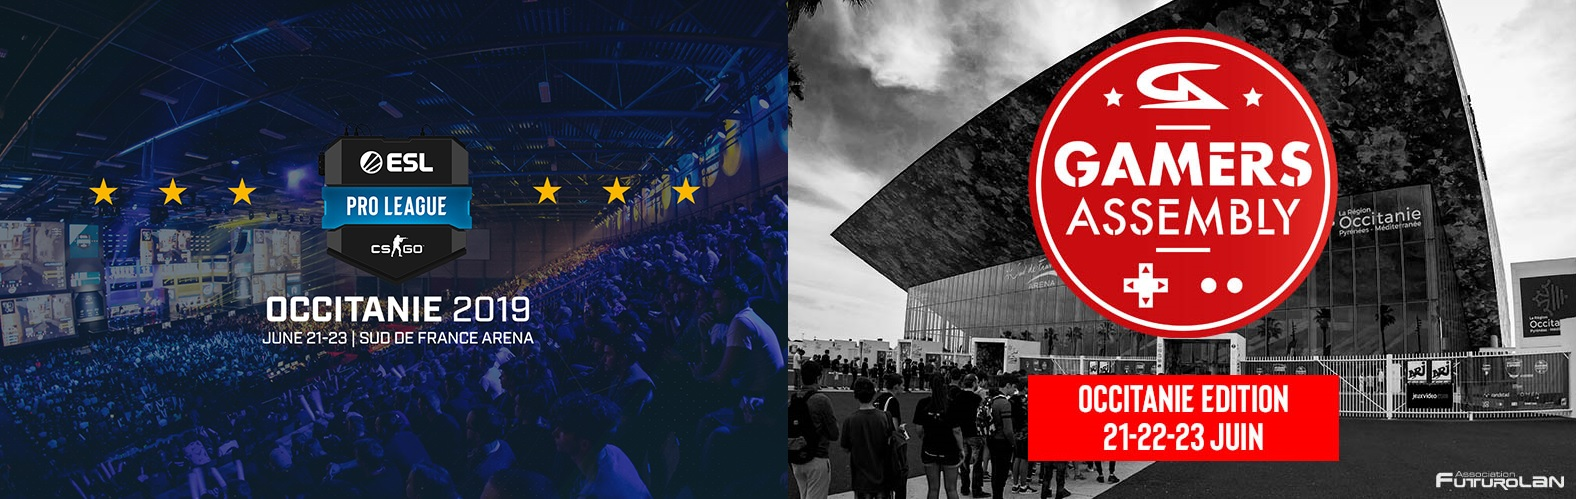
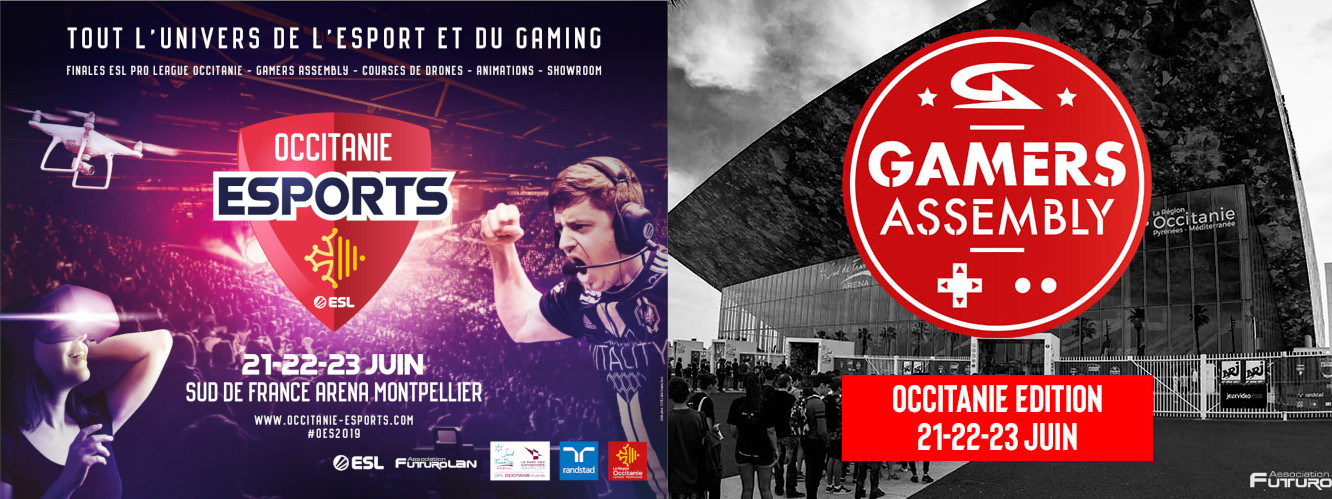
Set color to OES

diff --git a/config/config.js b/config/config.js
@@ -1,21 +1,21 @@
 let config = {
-  title: 'Gamers Assembly : Dev Front',
-  logo: `/static/img/logo-orange-100x100.png`,
-  description: 'Retrouvez la Gamers Assembly prochainement',
-  metaImagePath: `/static/img/logo-orange-200x200.png`,
-  gaTrackingId: 'UA-0000000-0',
+  title: 'Gamers Assembly : Occitanie Edition',
+  logo: `/static/img/logo_ga_oes.png`,
+  description: 'La Gamers Assembly Occitanie Edition aura lieu du ?? au ?? juin 2019 !',
+  metaImagePath: `/static/img/logo_ga_oes.png`,
+  gaTrackingId: 'UA-128777022-6',
   mainPartner: {
-    logo: '/static/img/charente-maritime.png',
-    url: 'https://bmagic.fr'
+    logo: '/static/img/logo-occitanie-238x106.png',
+    url: 'https://www.laregion.fr/'
   },
   home: {
-    hero: {
-      title: 'Gamers Assembly',
-      subtitle: 'Dev Front',
-      background: '/static/img/bg-blue-area.jpg'
-    },
-    banner: '/static/img/bg-banner-al2018.jpg',
-    twitterAccount: 'GamersAssembly',
+    // hero: {
+    //   title: 'Gamers Assembly',
+    //   subtitle: 'Dev Front',
+    //   background: '/static/img/bg-blue-area.jpg'
+    // },
+    banner: '/static/img/oes.jpg',
+    twitterAccount: 'OccitanieEsport',
     partners: {
       active: true,
       delay: 10,
@@ -24,7 +24,7 @@ let config = {
   },
   news: {
     title: 'Actualités',
-    description: 'Retrouvez toutes les actualités de la Gamers Assembly',
+    description: 'Retrouvez toutes les actualités de la Gamers Assembly Occitanie Edition',
     link: '/news'
   },
   partners: {
@@ -34,12 +34,12 @@ let config = {
   },
   tournaments: {
     title: 'Tournois',
-    description: 'Tous les tournois de la Gamers Assembly',
+    description: 'Tous les tournois de la Gamers Assembly Occitanie Edition',
     link: '/tournois'
   },
   info: {
-    title: 'Venir à la GA',
-    description: 'Toutes les informations sur cet évènement',
+    title: 'Infos pratiques',
+    description: 'Toutes les informations sur la Gamers Assembly Occitanie Edition',
     link: '/infos'
   },
   schedule: {
@@ -54,12 +54,12 @@ let config = {
   },
   tickets: {
     title: 'Billetterie',
-    description: 'Achetez vos places pour la Gamers Assembly',
+    description: 'Achetez vos places pour la Gamers Assembly Occitanie Edition',
     link: '/billetterie',
     pass: {
-      title: 'Pass "Manager/Accompagnateur"',
-      text: 'Pour obtenir des pass "Manager/Accompagnateur", les équipes inscrites aux tournois peuvent réaliser une demande via le lien ci-dessous.',
-      button: 'Obtenir un pass'
+      title: 'Pass Visiteur',
+      text: 'Pour acheter un pass "Visiteur Occitanie Esports" ou un pass "Visiteur ESL Pro League Occitanie", suivre le lien ci-dessous',
+      button: 'Acheter un billet visiteur'
     },
     minor: {
       title: 'Informations pour les mineurs',
@@ -74,17 +74,17 @@ let config = {
   },
   exhibitors: {
     title: 'Exposants',
-    description: 'Les exposants que vous pourrez retrouver à la Gamers Assembly',
+    description: 'Les exposants que vous pourrez retrouver à la Gamers Assembly Occitanie Edition',
     link: '/exposants'
   },
   family: {
     title: 'Espace Famille',
-    description: 'Les activités à faire en famille durant la Gamers Assembly',
+    description: 'Les activités à faire en famille durant la Gamers Assembly Occitanie Edition',
     link: '/espace-famille'
   },
   influencers: {
     title: 'VIPs',
-    description: 'Les personnalités qui seront présentes pour la Gamers Assembly',
+    description: 'Les personnalités qui seront présentes pour la Gamers Assembly Occitanie Edition',
     link: '/vips'
   },
   contact: {
@@ -92,7 +92,7 @@ let config = {
     pageId: 6
   },
   press: {
-    active: true,
+    active: false,
     pageId: 7
   },
   legals: {
@@ -100,7 +100,7 @@ let config = {
     pageId: 8
   },
   recruit: {
-    active: true,
+    active: false,
     title: 'Recrutement',
     description: 'Devenir bénévole pour la GAMERS ASSEMBLY, c\'est par ici !!!',
     formUrl: 'https://goo.gl/forms/84pHQfSp50RcuUel2'
@@ -108,9 +108,9 @@ let config = {
   social: {
     twitter: 'https://twitter.com/GamersAssembly',
     facebook: 'https://www.facebook.com/GamersAssembly',
-    twitch: 'https://www.flickr.com/photos/futurolan',
-    youtube: 'https://twitch.tv/gamers_assembly',
-    flickr: 'https://www.youtube.com/channel/UCbfhRIAsc4xdRACnDUwRfRw',
+    twitch: 'https://twitch.tv/gamers_assembly',
+    youtube: 'https://www.youtube.com/channel/UCbfhRIAsc4xdRACnDUwRfRw',
+    flickr: 'https://www.flickr.com/photos/futurolan',
     discord: 'https://discordapp.com/invite/gamersassembly'
   }
 }

diff --git a/config/menu.js b/config/menu.js
@@ -1,24 +1,16 @@
 const menu = [
   { type: 'config', id: 'news' },
-  // { type: 'config', id: 'live' },
-  { type: 'config', id: 'tickets' },
-  // { type: 'page', title: 'Pass\'Bar', id: 2822, link: '/passbar' },
-  { type: 'external', title: 'ESL Pro League', link: 'https://pro.eslgaming.com/occitanie/' },
+  // { type: 'config', id: 'tickets' },
   { type: 'config', id: 'tournaments' },
   { type: 'nolink',
     title: 'Infos',
     children: [
-      { type: 'config', id: 'info' },
-      // { type: 'config', id: 'schedule' },
-      // { type: 'page', title: 'Location', id: 3078, link: '/location' },
-      { type: 'config', id: 'exhibitors' },
-      { type: 'config', id: 'family' },
-      { type: 'config', id: 'influencers' },
-      // { type: 'external', title: 'Une page externe', link: 'https://www.bmagic.fr' },
-      // { type: 'page', title: 'Une page', id: 1246, link: '/grand-poitiers' },
-      { type: 'page', title: 'Cosplay', id: 2673, link: '/cosplay' }
-      // { type: 'page', title: 'Les Offs', id: 2727, link: '/offs' }
+      { type: 'config', id: 'info' }
+      // { type: 'external', title: 'Location', link: 'https://scoup-esport.fr/reservation/' }
+      // { type: 'page', title: 'Cosplay', id: 3569, link: '/cosplay' },
+      // { type: 'page', title: 'Région Occitanie', id: 3575, link: '/region' }
     ] },
+  //  { type: 'external', title: 'ESL Pro League', link: 'https://pro.eslgaming.com/occitanie/' },
   { type: 'config', id: 'partners' }
 ]
 
